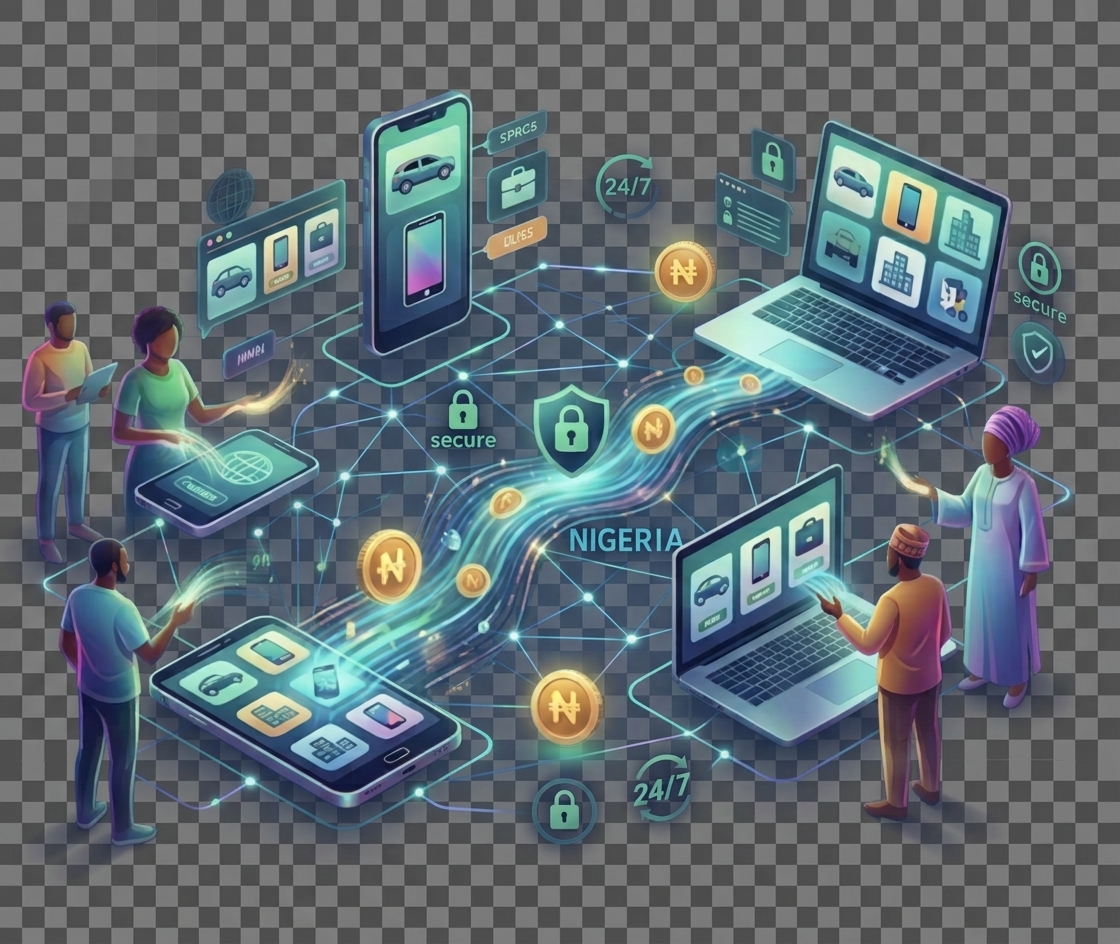
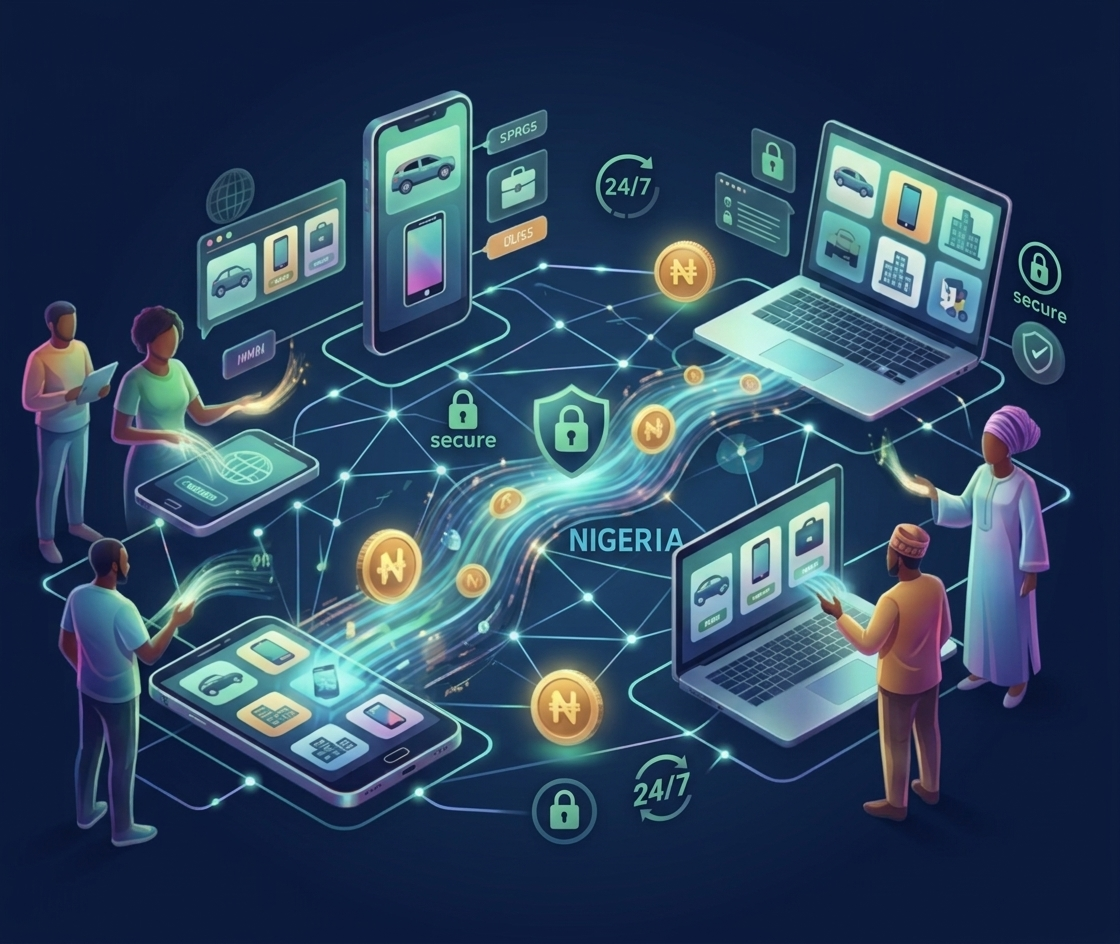
Update hero illustration, tighten padding and add border radius
New image has a solid navy background so it goes back on the navy
gradient hero box instead of a light card. Reduced padding and gave
the image its own rounded corners.

diff --git a/frontend/app/Home.tsx b/frontend/app/Home.tsx
@@ -137,7 +137,7 @@ const Home = ({ stats }: HomeProps) => {
         </div>
 
         <div
-          className="lg:flex-1 relative min-h-[260px] lg:min-h-[380px] rounded-[24px] bg-[linear-gradient(155deg,#ffffff_0%,#f4f1ea_100%)] shadow-[0_30px_60px_-20px_rgba(7,19,40,0.25)] w-full overflow-hidden"
+          className="lg:flex-1 relative min-h-[260px] lg:min-h-[380px] rounded-[24px] bg-[radial-gradient(circle_at_30%_20%,#1a3b66_0%,#0d2140_45%,#071328_100%)] shadow-[0_30px_60px_-20px_rgba(7,19,40,0.45)] w-full overflow-hidden"
         >
           <Image
             src="/hero-illustration.jpeg"
@@ -145,7 +145,7 @@ const Home = ({ stats }: HomeProps) => {
             fill
             priority
             sizes="(max-width: 1024px) 90vw, 45vw"
-            className="object-contain p-4 sm:p-6"
+            className="object-cover rounded-[24px] p-1.5"
           />
         </div>
       </section>
